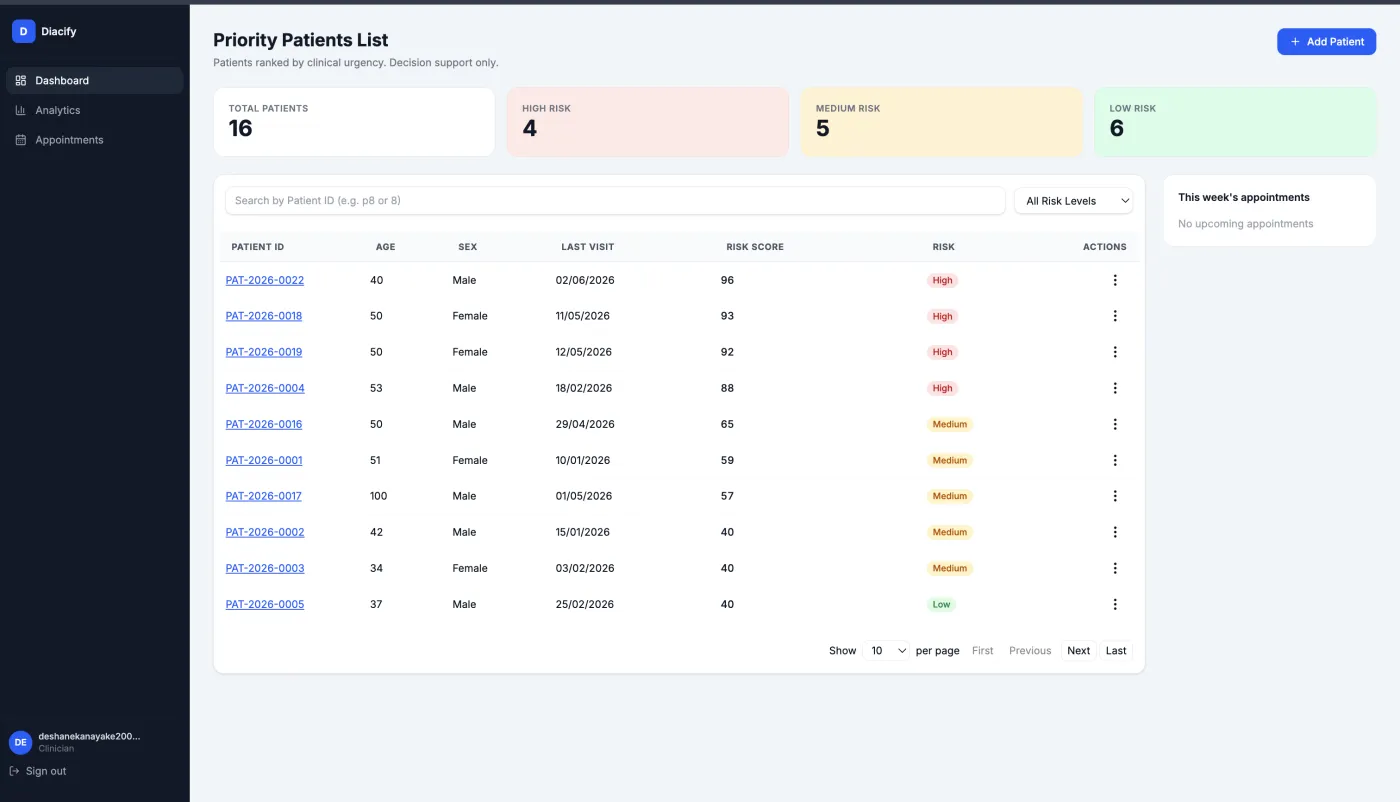
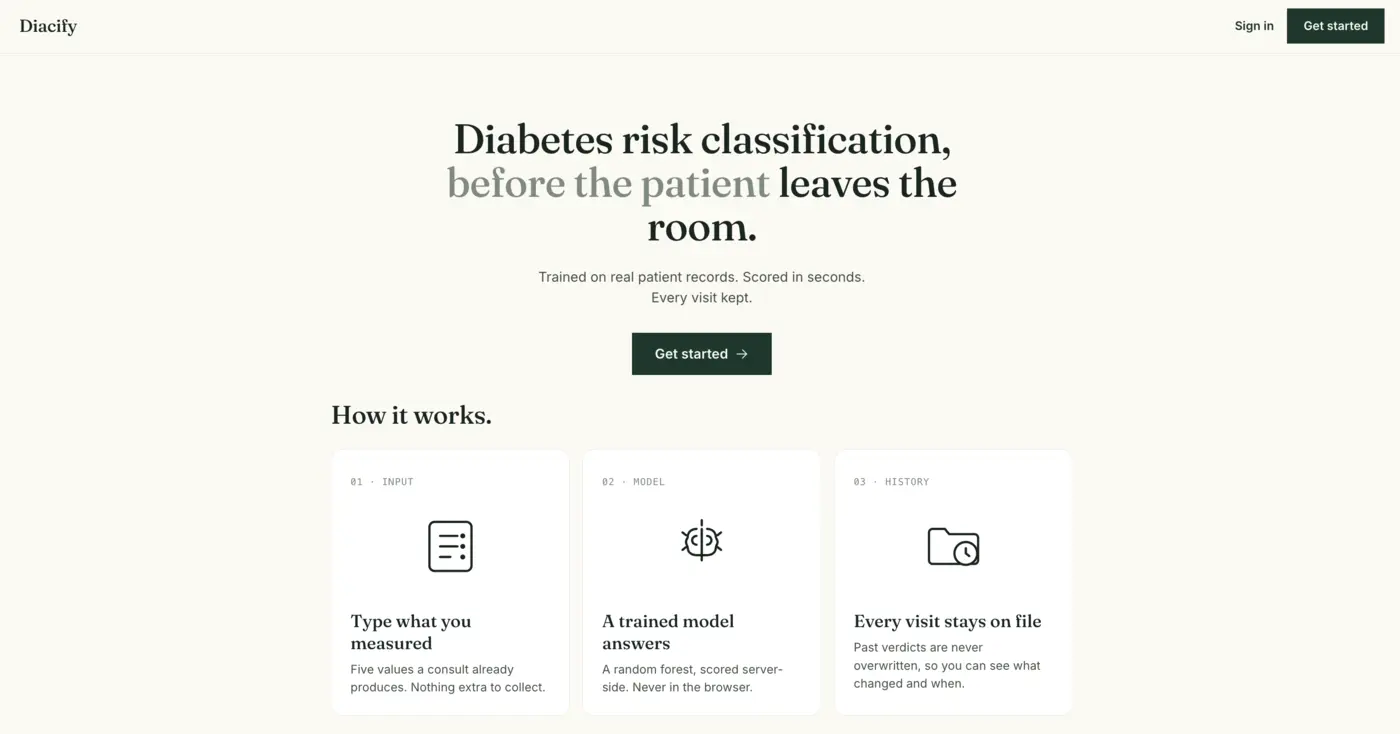
content: update Diacify card to the rebuilt stack and drop its case study
The stack listed FastAPI and MySQL from the old build. The rebuild uses
Express, Supabase/Postgres, and scikit-learn ported into the Node
backend, so the card and screenshot needed to match. The case study
page covered the old architecture end to end, so it comes down with
its route, sitemap entry, and prerender entry rather than describing a
system that no longer exists.

diff --git a/src/components/ProjectsSection.tsx b/src/components/ProjectsSection.tsx
@@ -5,13 +5,12 @@ const projects: ProjectData[] = [
   {
     title: 'Diacify — Clinical Decision Support System',
     description: 'ML system that ranks diabetic patients by urgency. Rebuilt from a 53% university submission to 94% Random Forest accuracy.',
-    lead: 'A clinical dashboard that ranks diabetic patients by urgency, so the highest-risk cases surface first. Full-stack ML: model, API, and interface.',
+    lead: 'A clinical dashboard that ranks diabetic patients by urgency, so a clinician sees the highest-risk cases first.',
     typeBadge: 'ML · Full-stack',
     statBadge: '94% accuracy',
-    stack: ['React 18', 'Node.js', 'FastAPI', 'MySQL 8', 'scikit-learn', 'Docker', 'GitHub Actions'],
+    stack: ['React 19', 'Express', 'Supabase', 'Postgres', 'scikit-learn', 'Zod', 'Vercel'],
     demo: 'https://diacify.vercel.app/',
     github: 'https://github.com/deshanekanayaka/diacify',
-    caseStudy: '/projects/diacify',
     flagship: true,
     screenshot: '/screenshots/diacify.webp',
   },

diff --git a/src/App.tsx b/src/App.tsx
@@ -3,7 +3,6 @@ import { useState, useEffect, lazy, Suspense } from 'react'
 import Home from './routes/Home'
 
 // Case studies are split out so the homepage bundle does not carry them.
-const DiacifyCaseStudy = lazy(() => import('./routes/projects/Diacify'))
 const SKYCaseStudy = lazy(() => import('./routes/projects/SKY'))
 
 export default function App() {
@@ -34,11 +33,6 @@ export default function App() {
             onToggleTheme={toggleTheme}
             onToggleSinhala={toggleSinhala}
           />
-        } />
-        <Route path="/projects/diacify" element={
-          <Suspense fallback={null}>
-            <DiacifyCaseStudy theme={theme} onToggleTheme={toggleTheme} />
-          </Suspense>
         } />
         <Route path="/projects/sky-health-check" element={
           <Suspense fallback={null}>

diff --git a/Readme.md b/Readme.md
@@ -25,10 +25,10 @@ Live at **[tharidu.dev](https://tharidu.dev)**
 
 - Light and dark theme toggle
 - 🇱🇰 Sinhala greeting easter egg
-- Interactive SVG background — moon, constellation, guitar strings, light beam
+- Interactive SVG background: moon, constellation, guitar strings, light beam
 - Scroll progress indicator
 - Project screenshots with lightbox
-- Diacify and SKY Engineering case study pages
+- SKY Engineering case study page
 - Build log modal (`v1.0` in footer)
 - Responsive down to 375px
 ---
@@ -36,10 +36,10 @@ Live at **[tharidu.dev](https://tharidu.dev)**
 
 The background pattern is hand-crafted SVG with personal meaning:
 
-- **Crescent moon** — "tharidu" means *the moon* in Sinhala
-- **Guitar string arcs** — fingerpicking guitar is a hobby
-- **Constellation** — inspired by Sri Lankan music and Harry Potter astronomy
-- **Light beam** — Expecto Patronum / Goggins energy
+- **Crescent moon**: "tharidu" means *the moon* in Sinhala
+- **Guitar string arcs**: fingerpicking guitar is a hobby
+- **Constellation**: inspired by Sri Lankan music and Harry Potter astronomy
+- **Light beam**: Expecto Patronum / Goggins energy
 
 Two versions: `LightSVG.tsx` and `DarkSVG.tsx` swap on theme toggle.
 
@@ -49,7 +49,7 @@ Two versions: `LightSVG.tsx` and `DarkSVG.tsx` swap on theme toggle.
 
 | Trigger | Effect |
 |---|---|
-| Hover name in navbar | Tooltip: "තරිදු — the moon, in sinhala." |
+| Hover name in navbar | Tooltip: "තරිදු, the moon, in sinhala." |
 | Click 🇱🇰 in hero | Greeting swaps to Sinhala for 2.5s |
 | Hover star node | Star brightens |
 | Hover guitar string | String plucks |
@@ -61,4 +61,4 @@ Two versions: `LightSVG.tsx` and `DarkSVG.tsx` swap on theme toggle.
 
 ## Licence
 
-MIT — feel free to use as inspiration, but please don't copy the personal content.
+MIT. Feel free to use as inspiration, but please do not copy the personal content.
